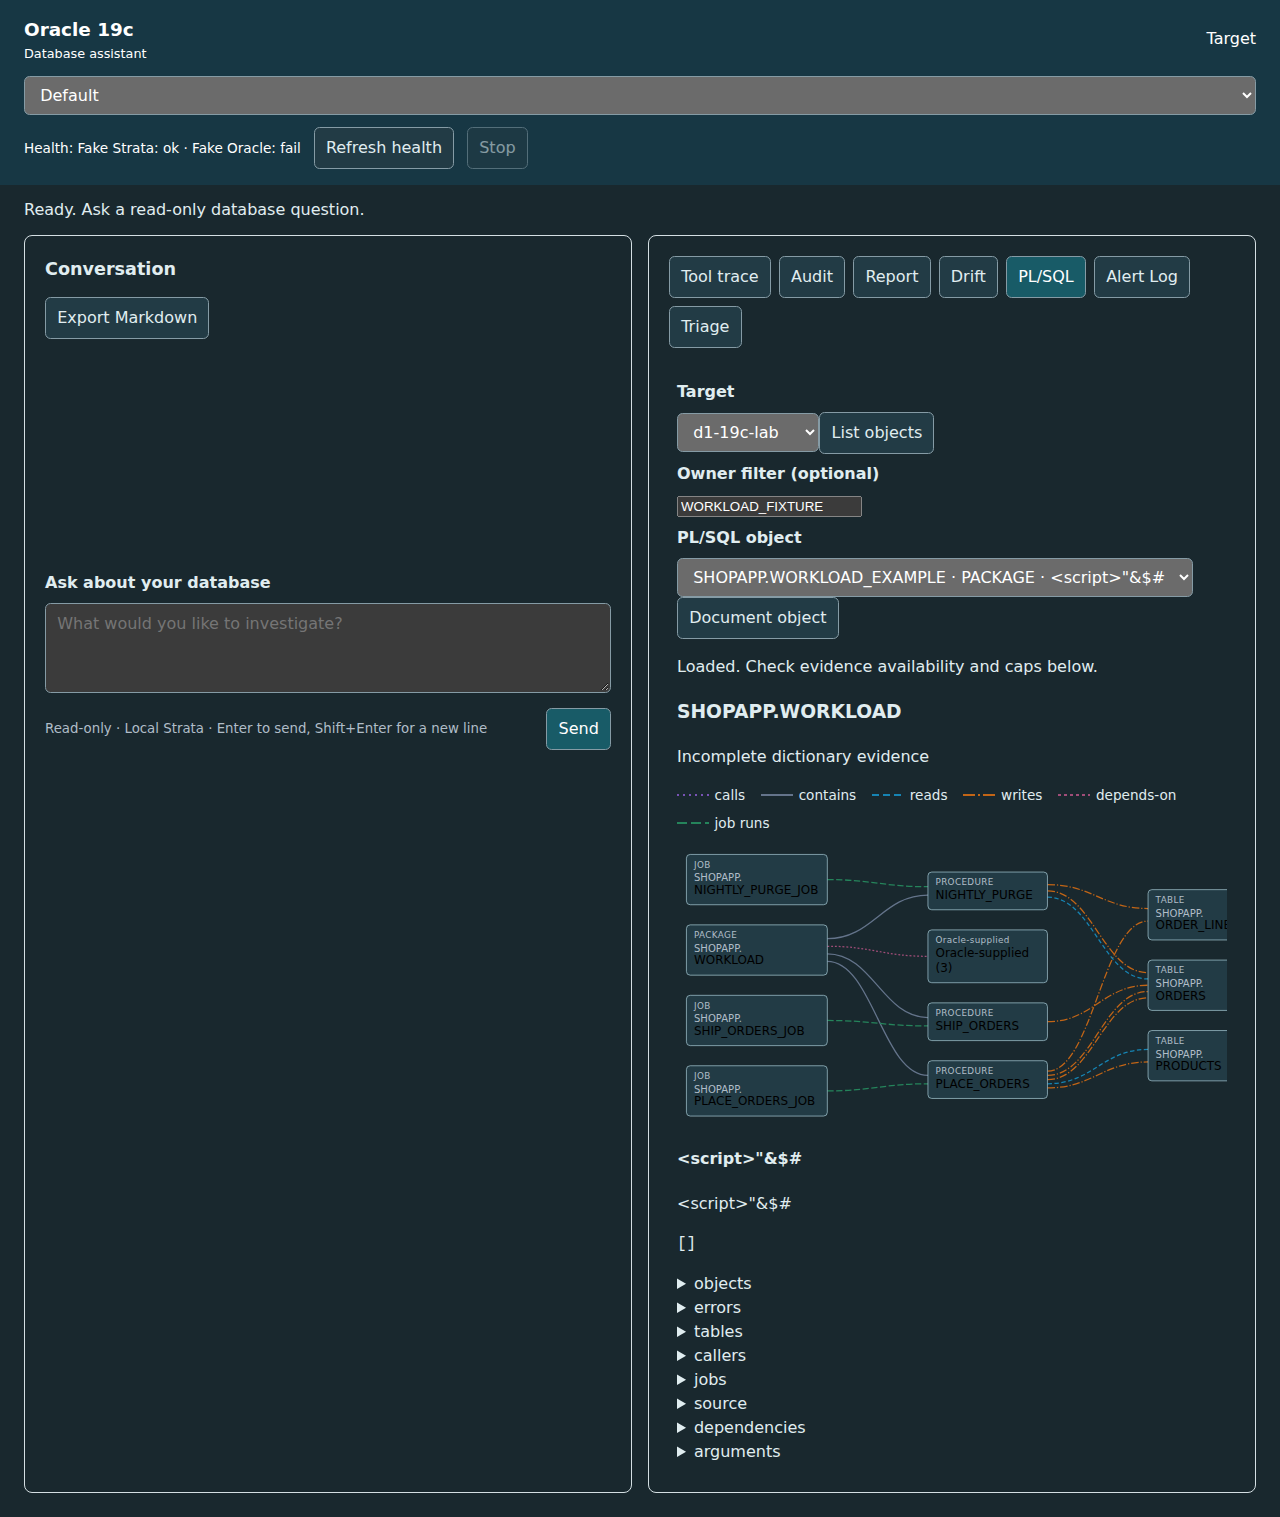
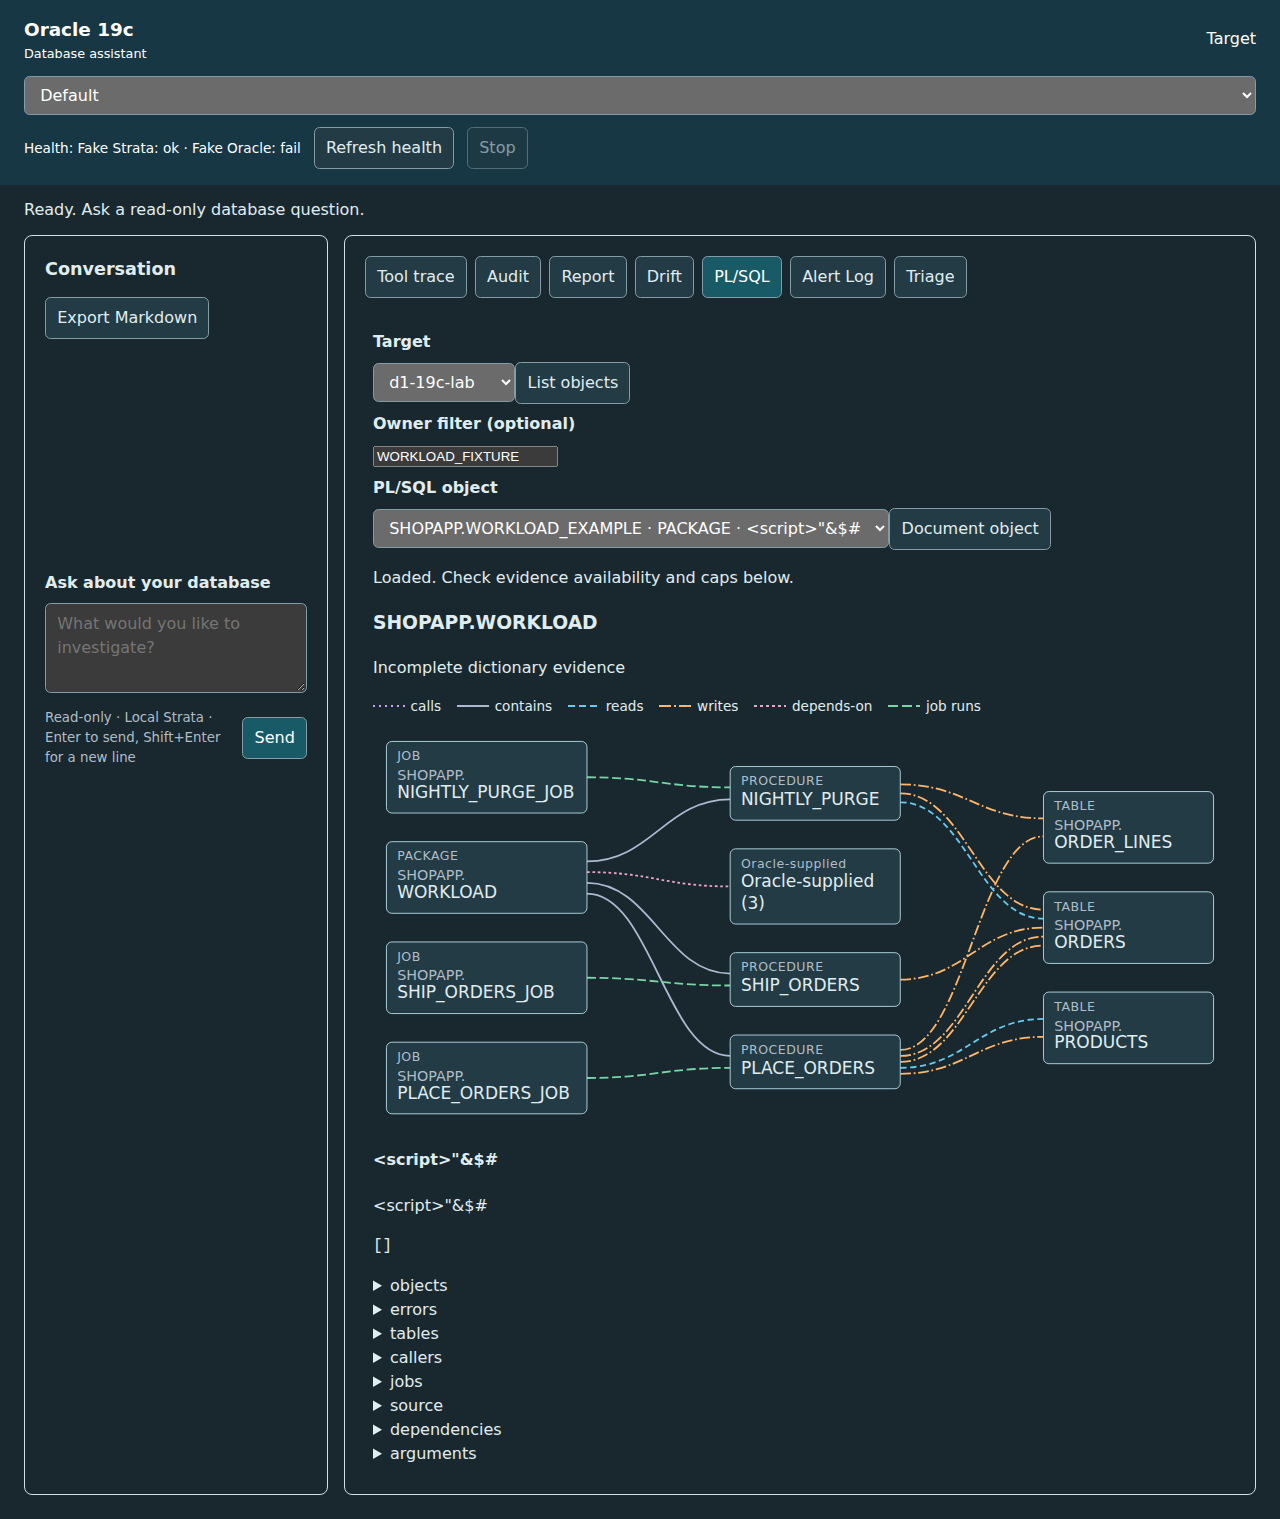
fix(web): theme graph contrast and fit all desktop nodes

diff --git a/src/web/static/app.css b/src/web/static/app.css
@@ -57,20 +57,17 @@ td:nth-child(2) { max-width: 24rem; }
 .graph-scroll { overflow: auto; max-width: 100%; }
 .graph-scroll svg { display: block; max-width: none; color: #235663; }
 @media (prefers-color-scheme: dark) {
-	#plsql-panel, #triage-panel { background: #19282e; color: #e0edf0; padding: .5rem; --graph-fill: #223b45; }
+	#plsql-panel, #triage-panel { background: #19282e; color: #e0edf0; padding: .5rem; }
 	.graph-scroll svg { color: #b8dce7; }
 }
-.graph-scroll svg { width: 100%; min-width: 600px; height: auto; }
+.graph-scroll svg { width: 100%; min-width: 0; height: auto; }
 .graph-legend { display: flex; flex-wrap: wrap; gap: .5rem 1rem; padding: 0; list-style: none; font-size: .85rem; }
 .graph-legend li { display: flex; align-items: center; gap: .35rem; }
 .graph-legend svg { width: 32px; height: 12px; flex: none; }
 #triage-since { display: block; width: 12rem; font: inherit; padding: .5rem; margin-bottom: .75rem; }
-.graph-view .node-kind, .graph-view .node-owner { fill: #64748b; }
+.graph-view .node-kind, .graph-view .node-owner { fill: var(--graph-muted); }
 .graph-view .node-kind { letter-spacing: .04em; }
 .graph-view .graph-legend { margin: .75rem 0; }
-@media (prefers-color-scheme: dark) {
-	.graph-view .node-kind, .graph-view .node-owner { fill: #b0bdc8; }
-}
 
 #alertlog-panel, .alert-evidence { overflow-wrap: anywhere; --alert-critical: #9d2020; --alert-important: #805000; --alert-normal: #235663; }
 #alertlog-panel input { display: block; max-width: 100%; width: 20rem; font: inherit; padding: .5rem; margin-bottom: .75rem; }
@@ -101,9 +98,9 @@ td:nth-child(2) { max-width: 24rem; }
 .alert-message summary { cursor: pointer; }
 .alert-message small { display: block; }
 .alert-traces ul { padding-left: 1.2rem; }
-/* Alert evidence needs room alongside the conversation, including at 1280px. */
+/* Graphs and alert evidence need room alongside the conversation at 1280px. */
 @media (min-width: 801px) {
-	main:has(#alertlog-tab[aria-selected="true"]), main:has(#triage-panel:not([hidden]) .alert-evidence) { grid-template-columns: minmax(12rem, 1fr) minmax(0, 3fr); }
+	main:has(#plsql-tab[aria-selected="true"]), main:has(#alertlog-tab[aria-selected="true"]), main:has(#triage-panel:not([hidden]) .alert-evidence) { grid-template-columns: minmax(12rem, 1fr) minmax(0, 3fr); }
 }
 /* Shared dark shell for every evidence tab and the conversation. */
 @media (prefers-color-scheme: dark) {
@@ -127,4 +124,25 @@ td:nth-child(2) { max-width: 24rem; }
 	.alert-entries td { display: block; border: 0; padding: .4rem; }
 	.alert-entries td:first-child { white-space: pre-wrap; font-size: .75rem; }
 	.alert-entries td:last-child { grid-column: 1 / -1; }
+}
+
+.graph-view {
+	--graph-node-fill: #edf5f6; --graph-node-stroke: #235663;
+	--graph-label: #182c38; --graph-muted: #465d68;
+	--graph-edge-calls: #7853b5; --graph-edge-contains: #64748b;
+	--graph-edge-reads: #1684b3; --graph-edge-writes: #c26516;
+	--graph-edge-depends: #a04d78; --graph-edge-jobs: #25845b;
+}
+.graph-view .node-label { fill: var(--graph-label); }
+@media (prefers-color-scheme: dark) {
+	.graph-view {
+		--graph-node-fill: #223b45; --graph-node-stroke: #b8dce7;
+		--graph-label: #e0edf0; --graph-muted: #b0bdc8;
+		--graph-edge-calls: #c5a2f4; --graph-edge-contains: #acbad0;
+		--graph-edge-reads: #66c9ee; --graph-edge-writes: #ffb66b;
+		--graph-edge-depends: #eda4cc; --graph-edge-jobs: #76d6a5;
+	}
+}
+@media (max-width: 800px) {
+	.graph-scroll svg { min-width: 600px; }
 }

diff --git a/tests/browser/insight.spec.ts b/tests/browser/insight.spec.ts
@@ -145,3 +145,53 @@ test("WORKLOAD uses wide columns, compact tagged nodes and separate edge ports",
 	const diagram = await graph.boundingBox();
 	expect(legend!.y + legend!.height).toBeLessThan(diagram!.y);
 });
+
+for (const colorScheme of ['light', 'dark'] as const) test(`graph bounds and AA contrast in ${colorScheme}`, async ({ page }) => {
+	await page.setViewportSize({ width: 1280, height: 1000 });
+	await page.emulateMedia({ colorScheme });
+	await page.goto(process.env.PIAGENT_BROWSER_URL!);
+	await page.locator('#plsql-tab').click();
+	await page.locator('#plsql-owner').fill('WORKLOAD_FIXTURE');
+	await page.locator('#plsql-run').click();
+	await expect(page.locator('#plsql-object option')).toHaveCount(1);
+	await page.locator('#plsql-doc').click();
+	const graph = page.locator('#plsql-content .graph-scroll > svg');
+	const result = await graph.evaluate(svg => {
+		const luminance = (color: string) => {
+			const rgb = color.match(/[\d.]+/g)!.slice(0, 3).map(Number).map(value => {
+				const s = value / 255; return s <= .04045 ? s / 12.92 : ((s + .055) / 1.055) ** 2.4;
+			});
+			return rgb[0]! * .2126 + rgb[1]! * .7152 + rgb[2]! * .0722;
+		};
+		const contrast = (a: string, b: string) => {
+			const l1 = luminance(a), l2 = luminance(b);
+			return (Math.max(l1, l2) + .05) / (Math.min(l1, l2) + .05);
+		};
+		const bounds = (svg as SVGSVGElement).viewBox.baseVal;
+		const nodes = [...svg.querySelectorAll('g[data-node-id]')];
+		const background = getComputedStyle(svg.closest('section')!).backgroundColor;
+		const edges = [...svg.closest('.graph-view')!.querySelectorAll('path')];
+		return {
+			contained: nodes.every(node => {
+				const rect = (node.querySelector('rect') as SVGRectElement).getBBox();
+				return rect.x >= bounds.x && rect.y >= bounds.y && rect.x + rect.width <= bounds.x + bounds.width && rect.y + rect.height <= bounds.y + bounds.height;
+			}),
+			textContrast: nodes.flatMap(node => [...node.querySelectorAll('text')].map(text => contrast(getComputedStyle(text).fill, getComputedStyle(node.querySelector('rect')!).fill))),
+			strokeContrast: nodes.map(node => contrast(getComputedStyle(node.querySelector('rect')!).stroke, getComputedStyle(node.querySelector('rect')!).fill)),
+			edgeContrast: edges.map(edge => contrast(getComputedStyle(edge).stroke, background)),
+			styles: [...new Set(edges.map(edge => getComputedStyle(edge).stroke + '/' + getComputedStyle(edge).strokeDasharray))],
+			fits: svg.getBoundingClientRect().width <= svg.parentElement!.clientWidth,
+		};
+	});
+	expect(result.contained).toBe(true);
+	expect(result.fits).toBe(true);
+	for (const ratio of result.textContrast) expect(ratio).toBeGreaterThanOrEqual(4.5);
+	for (const ratio of [...result.strokeContrast, ...result.edgeContrast]) expect(ratio).toBeGreaterThanOrEqual(3);
+	expect(result.styles).toHaveLength(6);
+	await page.setViewportSize({ width: 390, height: 844 });
+	const scroll = page.locator('#plsql-content .graph-scroll');
+	expect(await scroll.evaluate(node => getComputedStyle(node).overflowX)).toBe('auto');
+	await scroll.evaluate(node => { node.scrollLeft = node.scrollWidth; });
+	expect(await scroll.evaluate(node => node.scrollLeft + node.clientWidth >= node.scrollWidth - 1)).toBe(true);
+	expect(await page.evaluate(() => document.documentElement.scrollWidth <= innerWidth)).toBe(true);
+});

diff --git a/src/web/static/insight.js b/src/web/static/insight.js
@@ -16,12 +16,12 @@ function svgEl(tag, attrs = {}, text) {
 }
 
 const edgeStyles = {
-	calls: { color: "#7853b5", dash: "2 4" },
-	contains: { color: "#64748b", dash: "" },
-	reads: { color: "#1684b3", dash: "7 4" },
-	writes: { color: "#c26516", dash: "12 3 2 3" },
-	"depends-on": { color: "#a04d78", dash: "3 3" },
-	"job runs": { color: "#25845b", dash: "10 4" },
+	calls: { color: "var(--graph-edge-calls)", dash: "2 4" },
+	contains: { color: "var(--graph-edge-contains)", dash: "" },
+	reads: { color: "var(--graph-edge-reads)", dash: "7 4" },
+	writes: { color: "var(--graph-edge-writes)", dash: "12 3 2 3" },
+	"depends-on": { color: "var(--graph-edge-depends)", dash: "3 3" },
+	"job runs": { color: "var(--graph-edge-jobs)", dash: "10 4" },
 };
 
 function edgeKind(edge, nodes) {
@@ -100,7 +100,7 @@ function drawNode(svg, node, position) {
 	const group = svgEl("g", { "data-node-id": node.id });
 	const box = svgEl("rect", {
 		x: position.x, y: position.y, width: position.width, height: position.height, rx: 6,
-		fill: "var(--graph-fill, #edf5f6)", stroke: "currentColor",
+		fill: "var(--graph-node-fill)", stroke: "var(--graph-node-stroke)",
 	});
 	group.append(svgEl("title", {}, node.title ?? node.label), box);
 	const x = position.x + 12;
@@ -126,6 +126,9 @@ export function drawGraph(graph) {
 	wrap.className = "graph-view";
 	const scroll = el("div");
 	scroll.className = "graph-scroll";
+	scroll.tabIndex = 0;
+	scroll.setAttribute("role", "region");
+	scroll.setAttribute("aria-label", "Dependency graph, scroll horizontally when needed");
 	const svg = svgEl("svg", { role: "img", "aria-label": "Evidence dependency graph", width: "100%" });
 	const context = document.createElement("canvas").getContext("2d");
 	context.font = "19px system-ui, sans-serif";

diff --git a/tests/browser/alertlog.spec.ts b/tests/browser/alertlog.spec.ts
@@ -152,5 +152,7 @@ test('every evidence tab has the same dark shell, including PL/SQL', async ({ pa
 	if (process.env.PIAGENT_ALERTLOG_CAPTURE_FIXTURE === '1') {
 		await mkdir('docs/img', { recursive: true });
 		await page.screenshot({ path: 'docs/img/plsql-dark-shell.png', fullPage: true });
+		await page.emulateMedia({ colorScheme: 'light' });
+		await page.screenshot({ path: 'docs/img/plsql-light-shell.png', fullPage: true });
 	}
 });

diff --git a/docs/web-ui.md b/docs/web-ui.md
@@ -449,3 +449,29 @@ Final visual follow-up:
   with the 2 opt-in live tests skipped. The separate Oracle-only capture test
   passed on both targets, refreshed the five live images and stopped its server
   by listening PID. No DB/LLM code or contracts changed; no LLM calls were made.
+
+PL/SQL graph contrast and bounds follow-up:
+
+- Node fills, outlines, owner/name labels and kind tags use graph theme tokens.
+  Light uses pale nodes with dark labels; dark uses `#223b45` nodes with
+  `#e0edf0` labels and `#b0bdc8` owner/kind text. Each of the six edge styles has
+  separate light/dark colours, retaining its distinct dash pattern and legend.
+- The viewBox already included all nodes. Clipping in the earlier desktop image
+  came from the SVG's 600px minimum width exceeding its evidence pane. Desktop
+  SVGs now fit their container, and the PL/SQL pane gets the same wider desktop
+  allocation as alert evidence. Phones retain a horizontal scroll region that
+  can be focused with the keyboard; its right edge exposes the last column.
+- [Dark graph](img/plsql-dark-shell.png) and [light graph](img/plsql-light-shell.png)
+  were retaken with the WORKLOAD browser fixture at a 1280px viewport and inspected.
+  Both show the full right-most table column.
+- Browser tests check every node rectangle against the SVG viewBox, desktop fit,
+  phone scroll reachability and lack of horizontal page overflow. They calculate
+  contrast from computed SVG colours: every label/owner/kind tag is at least
+  4.5:1 against its node fill; outlines are at least 3:1 against node fill and
+  edges/legend swatches at least 3:1 against the surrounding surface. All six
+  colour/dash styles remain distinct in both themes. These are graph-specific
+  contrast checks, not a claim of an application-wide accessibility audit.
+- Validation: `npm run typecheck` passed; `npm test` passed all 1,071 tests;
+  `PIAGENT_ALERTLOG_CAPTURE_FIXTURE=1 npm run test:browser` passed 38 tests,
+  with 2 opt-in live tests skipped. No DB or LLM paths changed or ran; no shared
+  contract changes are needed. The screenshots use browser fixtures.
